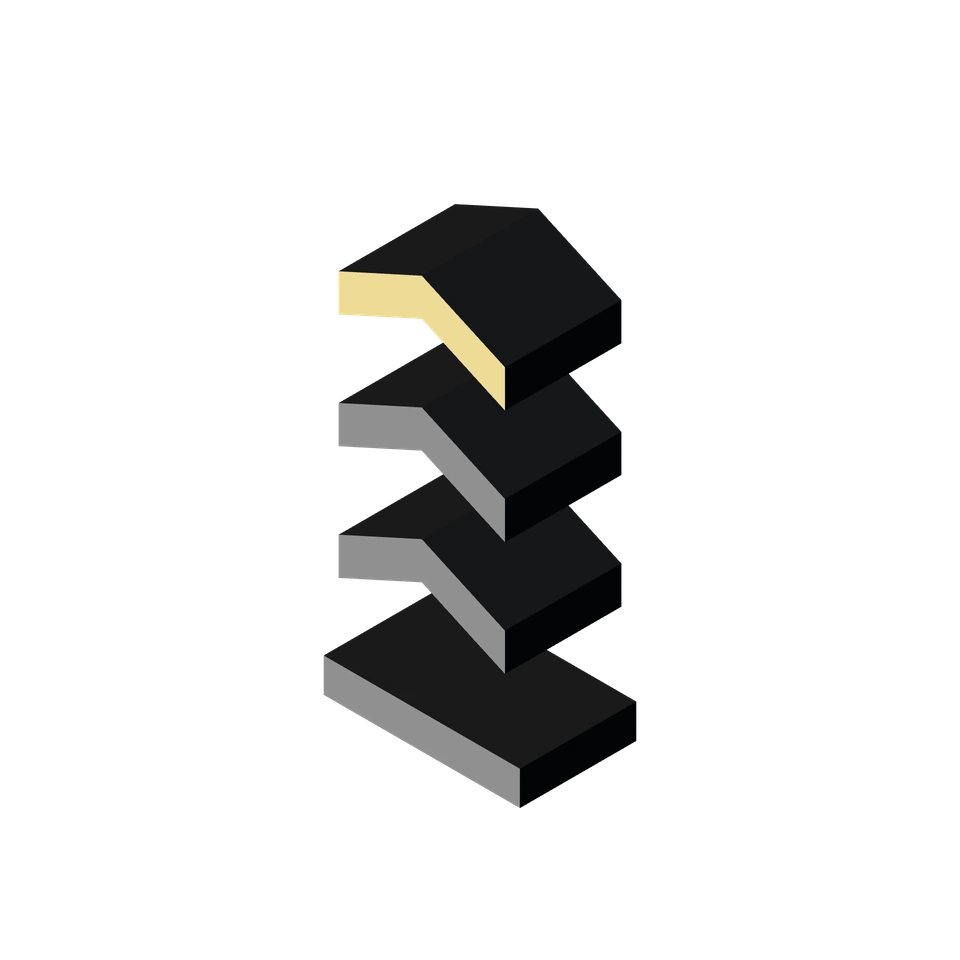
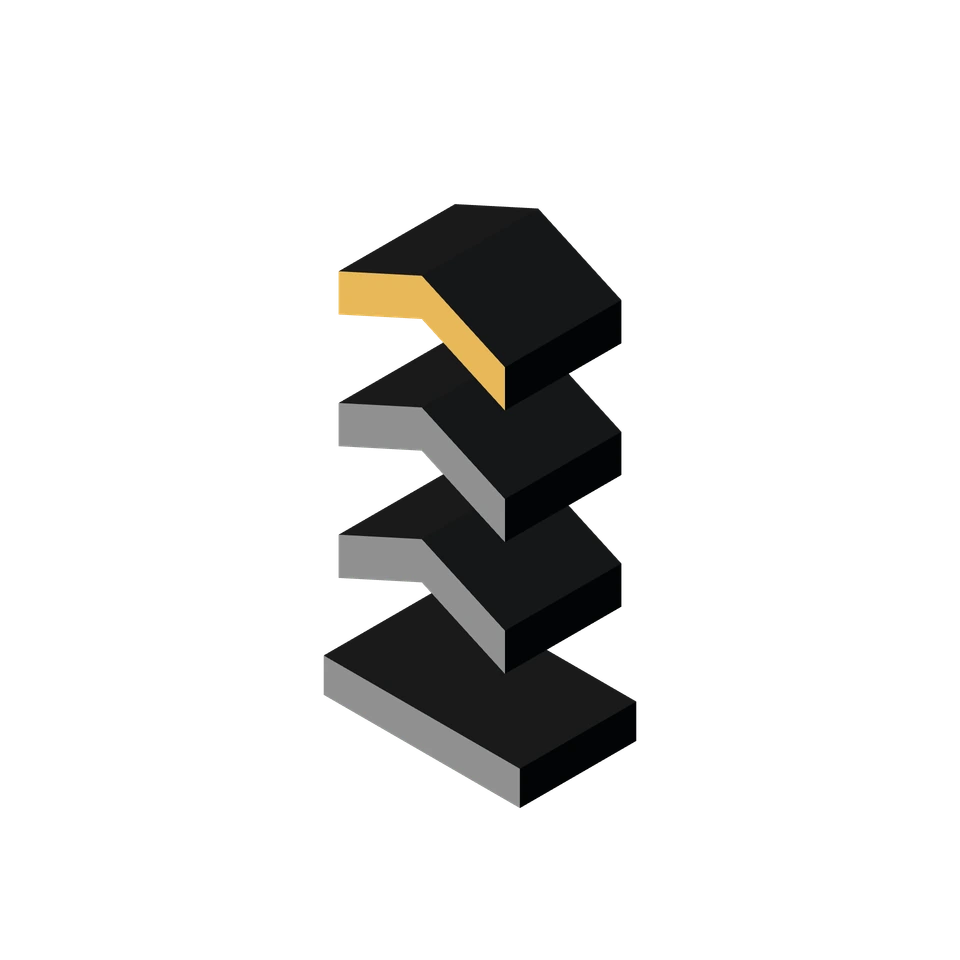
feat: integración y verificación de la fase 3
- Canto encendido de la pila con el ámbar de marca exacto (fuera del tone mapping; #c6851e en
  claro): de frente la pila es el logo de Sumari. Póster regenerado.
- perfil.ts: nombre de pila y apellidos, temas del knowsAbout y texto de Sumari; Base, og-card y
  Sumari ya no parten ni transforman cadenas.
- Token --header-h para el hero; subrayado de Redes solo bajo el nombre; póster del Stage perezoso
  para no descargarlo en móvil; favicon con la pila por capas; fuera el póster provisional.
- scripts/audit.mjs (pnpm audit): LCP, CLS, peso y axe contra los presupuestos.
- README con la guía de lanzamiento (fase 4) y docs/plan.md al día.

Changed region(s): [[0.3438, 0.2812, 0.5312, 0.4375]]

diff --git a/src/three/look.ts b/src/three/look.ts
@@ -3,9 +3,13 @@
 import { Color, DirectionalLight, HemisphereLight, MeshStandardMaterial, type Scene } from 'three';
 import type { StackTheme } from './types';
 
-const AMBAR = new Color(0xe7b857);
+/* El canto encendido tiene que leerse como el ámbar de marca (el mismo de global.css), no como un
+   dorado lavado: encendido no recibe luz (su difuso va a negro) y solo emite su color, fuera del tone
+   mapping. Así de frente la pila es el logo de Sumari tal cual. En claro va el ámbar de relleno del
+   tema claro, que es el que contrasta con el papel. */
+const AMBAR: Record<StackTheme, Color> = { dark: new Color(0xe7b857), light: new Color(0xc6851e) };
 const APAGADO = new Color(0x8a9099);
-const INTENSIDAD: Record<StackTheme, number> = { dark: 1.4, light: 0.9 };
+const NEGRO = new Color(0x000000);
 
 export const esTema = (t: unknown): t is StackTheme => t === 'dark' || t === 'light';
 
@@ -24,10 +28,17 @@ export const grafito = () => new MeshStandardMaterial({ color: 0x23262b, roughne
 
 /** Canto frontal: apagado (#8a9099, sin emisión) o ámbar emitiendo; uno por placa. */
 export const canto = () =>
-  new MeshStandardMaterial({ color: APAGADO.clone(), emissive: AMBAR, roughness: 0.4, metalness: 0 });
+  new MeshStandardMaterial({ color: APAGADO.clone(), emissive: AMBAR.dark.clone(), roughness: 0.4, metalness: 0 });
 
 /** Aplica el nivel de emisión `e` (0 apagado … 1 encendido, ya con easing) al canto. */
 export function encender(material: MeshStandardMaterial, e: number, tema: StackTheme) {
-  material.color.lerpColors(APAGADO, AMBAR, e);
-  material.emissiveIntensity = INTENSIDAD[tema] * e;
+  material.color.lerpColors(APAGADO, NEGRO, e);
+  material.emissive.copy(AMBAR[tema]);
+  material.emissiveIntensity = e;
+  // Solo el canto encendido sale del tone mapping; apagado se comporta como el resto de la pila.
+  const fuera = e > 0.5;
+  if (material.toneMapped === fuera) {
+    material.toneMapped = !fuera;
+    material.needsUpdate = true;
+  }
 }

diff --git a/src/data/perfil.ts b/src/data/perfil.ts
@@ -4,6 +4,9 @@
 
 export const perfil = {
   nombre: 'Francisco Sanvicente',
+  /** Partes del nombre para `profile:first_name/last_name` y la tarjeta OG (no se parte `nombre`). */
+  nombrePila: 'Francisco',
+  apellidos: 'Sanvicente',
   rol: 'Fundador de Sumari',
   /** Línea del hero, debajo del nombre. */
   lede: 'Fundador de Sumari. Construyo finanzas para quien vive en varias monedas.',
@@ -16,6 +19,8 @@ export const perfil = {
   pais: 'Venezuela',
   paisCodigo: 'VE',
   correo: 'franciscosanvicente1@gmail.com',
+  /** Temas del `knowsAbout` del JSON-LD: solo lo que Francisco hace de verdad. */
+  temas: ['Desarrollo web', 'Desarrollo de aplicaciones móviles', 'Finanzas personales'],
   /** Foto de retrato desde la raíz pública (ej. '/foto.jpg'). Vacía hasta que Francisco la entregue. */
   foto: '',
 } as const;
@@ -26,6 +31,9 @@ export const sumari = {
   urlVisible: 'sumariapp.com',
   descripcion:
     'App de finanzas personales que reúne bolívares, dólares, USDT y euros en un solo total a la tasa del día.',
+  /** Texto del bloque "Qué construyo", en primera persona. */
+  intro:
+    'Estoy construyendo Sumari, una app de finanzas personales que reúne bolívares, dólares, USDT y euros en un solo total a la tasa del día. La hago para la forma en que la gente en Venezuela maneja de verdad su dinero.',
   estado: 'En desarrollo · Google Play y App Store, próximamente',
 } as const;
 

diff --git a/src/styles/global.css b/src/styles/global.css
@@ -164,6 +164,9 @@ a:hover {
   --s-9: 96px;
   --s-10: 128px;
   --section-y: clamp(5rem, 3rem + 8vw, 10rem);
+  /* Alto de la cabecera (enlaces de 44 px + --s-5 arriba y abajo): el hero lo descuenta para llenar
+     la primera pantalla sin empujar las redes bajo el pliegue. */
+  --header-h: calc(44px + 2 * var(--s-5));
 
   --ease-out-expo: cubic-bezier(0.22, 1, 0.36, 1);
 }

diff --git a/docs/plan.md b/docs/plan.md
@@ -31,21 +31,23 @@ Las magnitudes son de nivel proyecto (aproximadas, sin desglose en horas).
 - [ ] Conectar el repo en Cloudflare Pages (lo hace Francisco desde su panel).
 
 ### Fase 1 — contenido y SEO, sin 3D · mediana · publicable al terminar
-- [ ] Secciones en HTML: hero, qué construyo, trayectoria, cómo pienso, contacto.
-- [ ] Title, meta description, canonical, Open Graph y Twitter card.
-- [ ] JSON-LD `Person` (nombre, cargo, Sumari como organización, Puerto Ordaz, correo, `sameAs`).
-- [ ] robots, sitemap, 404 e imagen OG generada en el build.
-- [ ] Publicación en `.pages.dev`.
+- [x] Secciones en HTML: hero, qué construyo, trayectoria, cómo pienso, contacto.
+- [x] Title, meta description, canonical, Open Graph y Twitter card.
+- [x] JSON-LD `Person` (nombre, cargo, Sumari como organización, Puerto Ordaz, correo, `sameAs`).
+- [x] robots, sitemap, 404 e imagen OG (`pnpm og`).
+- [ ] Publicación en `.pages.dev` (la conecta Francisco; ver README → Lanzamiento).
 
 ### Fase 2 — la pila 3D · grande
-- [ ] Geometría procedural en three.js (glTF solo si el acabado lo exige).
-- [ ] Detección de capacidad, carga diferida y corte si el render se atasca.
-- [ ] Giro lento en el hero; en "Trayectoria", pila fija y placas que encajan con el scroll nativo.
-- [ ] Imagen fija generada desde la escena.
+- [x] Geometría procedural en three.js, sin glTF.
+- [x] Detección de capacidad, carga diferida y corte si el render se atasca.
+- [x] Giro lento en el hero; en "Trayectoria", pila fija y placas que encajan con el scroll nativo.
+- [x] Imagen fija generada desde la escena (`pnpm poster`).
 
 ### Fase 3 — verificación · pequeña
-- [ ] Capturas móvil y escritorio, ambos temas, con una pasada de corrección.
-- [ ] axe, Lighthouse contra presupuestos y prueba de resultados enriquecidos.
+- [x] Capturas móvil y escritorio, ambos temas, con una pasada de corrección.
+- [x] axe y presupuestos con `pnpm audit` (laboratorio, 2026-10-17): LCP 1,5 s móvil / 1,0 s
+  escritorio, CLS 0,005, JS inicial 2,7 KB, escena 137 KB, 0 violaciones WCAG A/AA en ambos temas.
+- [ ] Prueba de resultados enriquecidos: necesita la URL pública (fase 4).
 
 ### Fase 4 — lanzamiento · pequeña
 - [ ] Comprar `franciscosanvicente.com` en Cloudflare y conectarlo a Pages.
@@ -54,6 +56,8 @@ Las magnitudes son de nivel proyecto (aproximadas, sin desglose en horas).
 - [ ] Enlace a la web en la bio de cada red.
 
 ## Pendiente de Francisco
+
+- Revisar el borrador de "Cómo pienso" (`src/components/Principios.astro`).
 
 - Foto (no bloquea la fase 1).
 - Usuario de redes: `@fransanvicente`; alternativas `@sanvicentefco`, `@fsanvicentedev`.

diff --git a/README.md b/README.md
@@ -21,7 +21,16 @@ pnpm install
 pnpm dev       # http://localhost:4321
 pnpm build     # genera dist/
 pnpm preview   # sirve dist/ para revisar el build
+pnpm test      # comprueba dist/: un solo H1, SEO, JSON-LD, noindex, sitemap
+pnpm shots     # capturas 375/1280 en oscuro, claro y movimiento reducido (con preview en marcha)
+pnpm audit     # LCP, CLS, peso y axe contra los presupuestos (con preview en marcha)
+pnpm og        # regenera public/og/default.png desde /og-card (con dev o preview en marcha)
+pnpm poster    # regenera el póster de la pila desde la escena 3D
 ```
+
+Datos de Francisco (bio, redes, hitos, foto) en un solo archivo: `src/data/perfil.ts`. Para
+añadir una red basta con poner su URL ahí; aparece en la página y en el `sameAs` del JSON-LD.
+Diseño: [docs/design/handoff.md](docs/design/handoff.md).
 
 ## URL del sitio
 
@@ -43,6 +52,28 @@ Conexión por Git, desde el panel de Cloudflare: Workers & Pages → Create → 
 
 La versión de Node sale de `.node-version` (22). `public/_headers` da caché inmutable a
 `/assets/*` y fija cabeceras básicas de seguridad.
+
+## Lanzamiento (fase 4)
+
+Lo hace Francisco desde sus cuentas, en este orden:
+
+1. **Conectar Cloudflare Pages** con la tabla de arriba y `SITE_URL` = la dirección `.pages.dev`
+   que asigne Cloudflare. Comprobar que la página carga y que `/robots.txt` apunta a esa dirección.
+2. **Comprar `franciscosanvicente.com`** en Cloudflare (Domain Registration) y añadirlo como dominio
+   personalizado del proyecto de Pages (Custom domains → Set up a domain).
+3. **Cambiar `SITE_URL`** a `https://franciscosanvicente.com` y volver a desplegar: canónica,
+   sitemap, Open Graph y JSON-LD pasan al dominio.
+4. **Redirigir `.pages.dev` al dominio:** Bulk Redirects con una regla 301 de
+   `<proyecto>.pages.dev` a `https://franciscosanvicente.com`, conservando ruta y query.
+5. **Search Console:** añadir la propiedad de dominio, verificarla con el registro TXT (Cloudflare
+   lo añade solo si se elige), enviar `https://franciscosanvicente.com/sitemap-index.xml` y pedir la
+   indexación de la home.
+6. **Validar:** la [prueba de resultados enriquecidos](https://search.google.com/test/rich-results)
+   con la URL pública (debe detectar `Person`) y el inspector de publicaciones de LinkedIn para ver
+   la tarjeta OG.
+7. **Enlazar desde cada red:** poner `https://franciscosanvicente.com` en la bio de LinkedIn,
+   GitHub y las redes nuevas, con el nombre visible "Francisco Sanvicente". Cada red nueva se añade
+   también en `src/data/perfil.ts`.
 
 ## Nota sobre `.npmrc`
 
